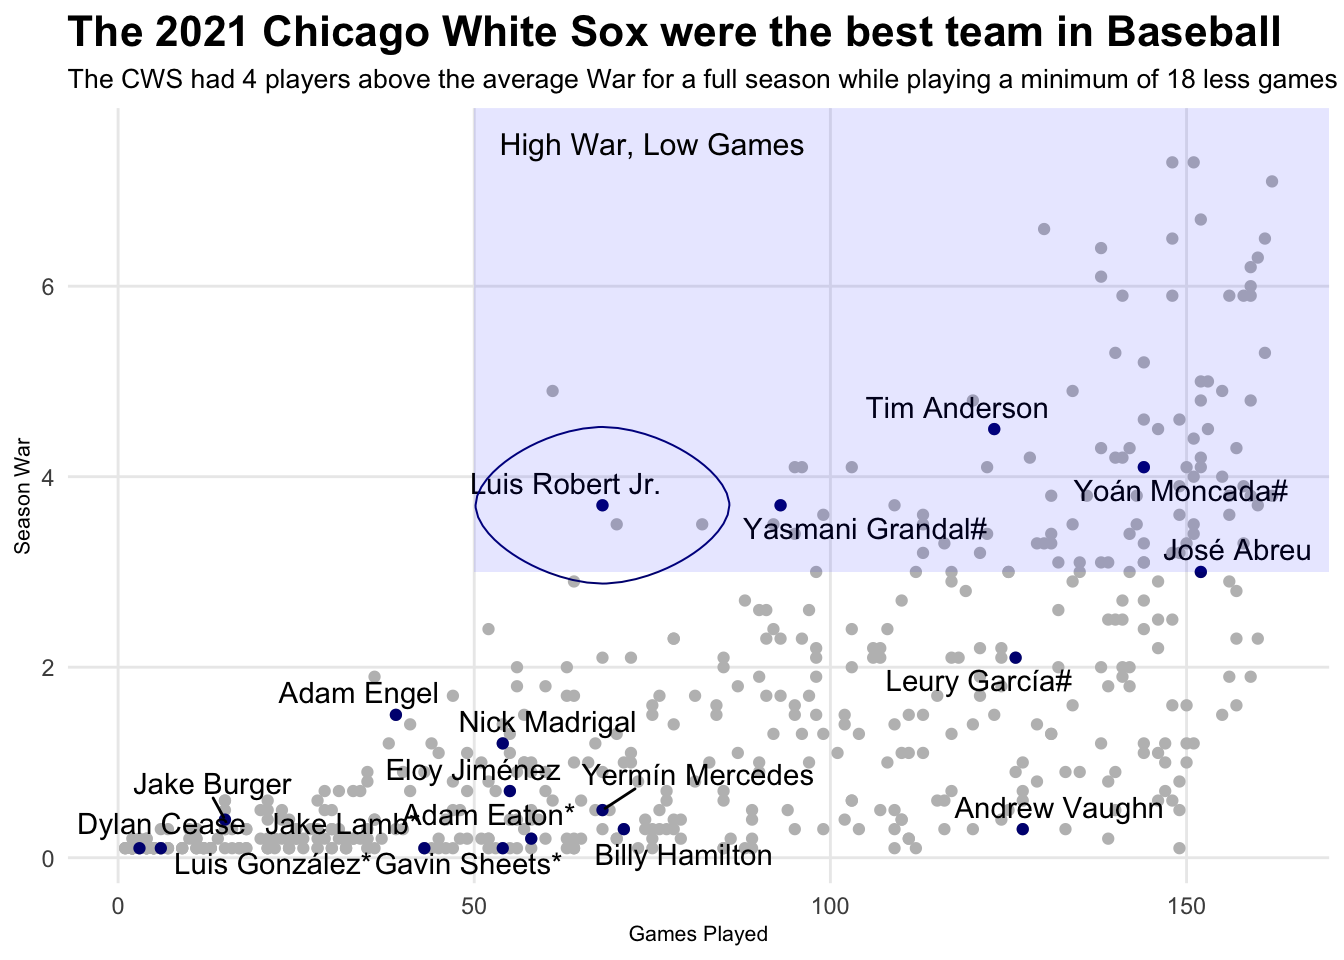
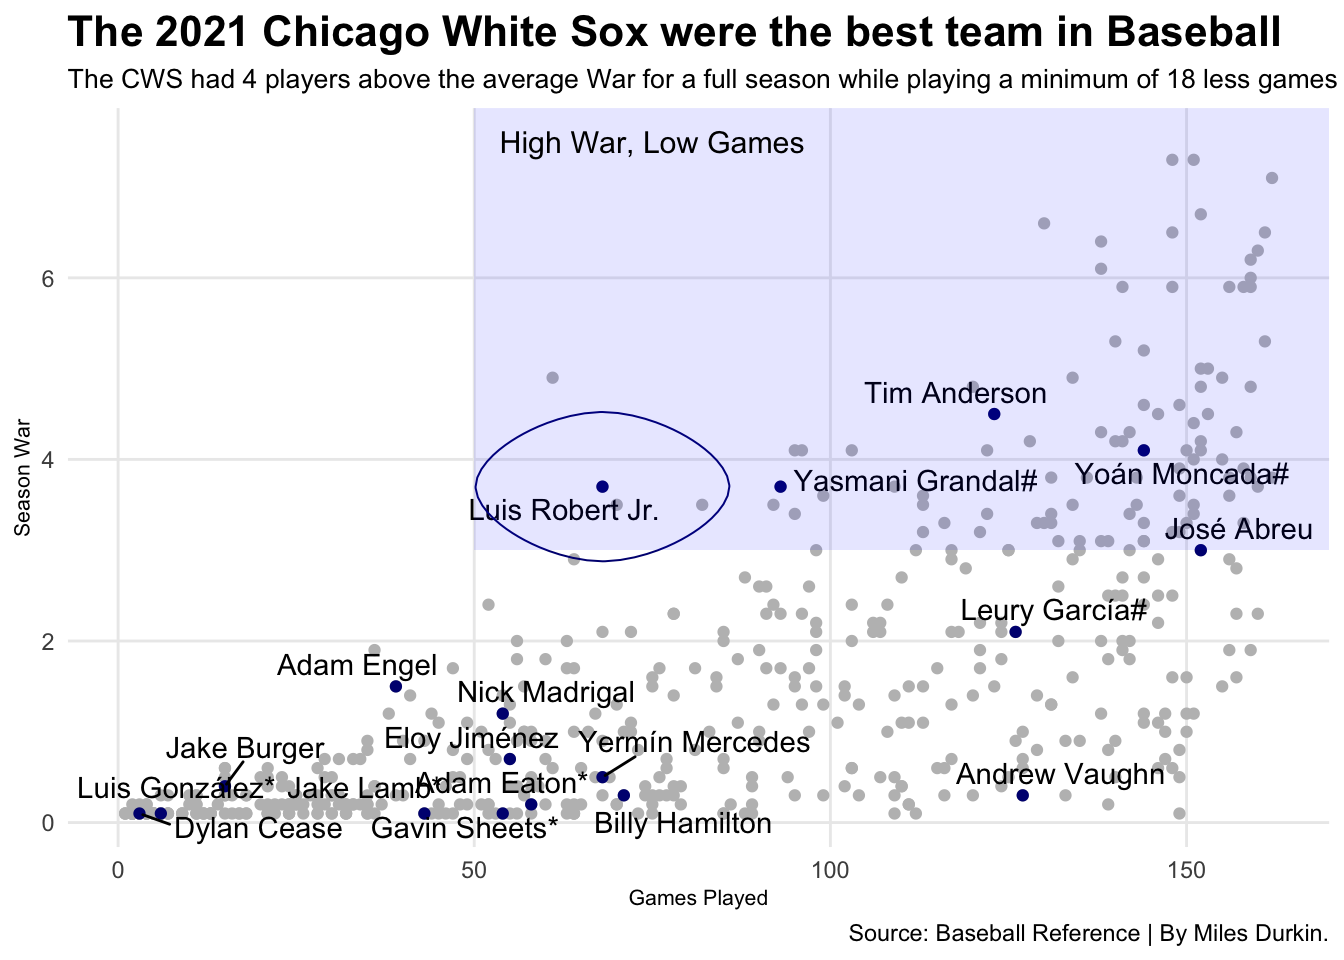
Final graphs added just need text

diff --git a/posts/mlb-baseball-whitesox-2021-season-best-team-in-the-league/index.html b/posts/mlb-baseball-whitesox-2021-season-best-team-in-the-league/index.html
@@ -401,7 +401,7 @@ dbl (29): Rk, Age, WAR, G, PA, AB, R, H, 2B, 3B, HR, RBI, SB, CS, BB, SO, BA...
 <span id="cb4-11"><a href="#cb4-11" aria-hidden="true" tabindex="-1"></a>        <span class="at">xmin =</span> <span class="dv">50</span>, <span class="at">xmax =</span> <span class="cn">Inf</span>,</span>
 <span id="cb4-12"><a href="#cb4-12" aria-hidden="true" tabindex="-1"></a>        <span class="at">ymin =</span> <span class="dv">3</span>, <span class="at">ymax =</span> <span class="cn">Inf</span>) <span class="sc">+</span></span>
 <span id="cb4-13"><a href="#cb4-13" aria-hidden="true" tabindex="-1"></a>  <span class="fu">geom_text</span>(<span class="fu">aes</span>(<span class="at">x=</span><span class="dv">75</span>, <span class="at">y=</span><span class="fl">7.5</span>, <span class="at">label=</span><span class="st">"High War, Low Games"</span>), <span class="at">size=</span><span class="dv">4</span>) <span class="sc">+</span></span>
-<span id="cb4-14"><a href="#cb4-14" aria-hidden="true" tabindex="-1"></a>  <span class="fu">labs</span>(<span class="at">title=</span><span class="st">"The 2021 Chicago White Sox were the best team in Baseball"</span>, <span class="at">subtitle=</span><span class="st">"The CWS had 4 players above the average War for a full season while playing a minimum of 18 less games"</span>, <span class="at">x=</span><span class="st">"Games Played"</span>, <span class="at">y=</span><span class="st">"Season War"</span>) <span class="sc">+</span> </span>
+<span id="cb4-14"><a href="#cb4-14" aria-hidden="true" tabindex="-1"></a>  <span class="fu">labs</span>(<span class="at">title=</span><span class="st">"The 2021 Chicago White Sox were the best team in Baseball"</span>, <span class="at">subtitle=</span><span class="st">"The CWS had 4 players above the average War for a full season while playing a minimum of 18 less games"</span>, <span class="at">x=</span><span class="st">"Games Played"</span>, <span class="at">y=</span><span class="st">"Season War"</span>, <span class="at">caption =</span> <span class="st">"Source: Baseball Reference | By Miles Durkin."</span>) <span class="sc">+</span> </span>
 <span id="cb4-15"><a href="#cb4-15" aria-hidden="true" tabindex="-1"></a>  <span class="fu">theme_minimal</span>() <span class="sc">+</span> </span>
 <span id="cb4-16"><a href="#cb4-16" aria-hidden="true" tabindex="-1"></a>  <span class="fu">theme</span>(</span>
 <span id="cb4-17"><a href="#cb4-17" aria-hidden="true" tabindex="-1"></a>    <span class="at">plot.title =</span> <span class="fu">element_text</span>(<span class="at">size =</span> <span class="dv">16</span>, <span class="at">face =</span> <span class="st">"bold"</span>),</span>
@@ -456,25 +456,81 @@ dbl (29): Rk, Age, WAR, G, PA, AB, R, H, 2B, 3B, HR, RBI, SB, CS, BB, SO, BA...
 <span id="cb5-33"><a href="#cb5-33" aria-hidden="true" tabindex="-1"></a>  ) <span class="sc">+</span></span>
 <span id="cb5-34"><a href="#cb5-34" aria-hidden="true" tabindex="-1"></a>  </span>
 <span id="cb5-35"><a href="#cb5-35" aria-hidden="true" tabindex="-1"></a>  <span class="fu">labs</span>(</span>
-<span id="cb5-36"><a href="#cb5-36" aria-hidden="true" tabindex="-1"></a>    <span class="at">x =</span> <span class="st">"Game Number"</span>,</span>
-<span id="cb5-37"><a href="#cb5-37" aria-hidden="true" tabindex="-1"></a>    <span class="at">y =</span> <span class="st">"Cumulative Wins"</span>,</span>
-<span id="cb5-38"><a href="#cb5-38" aria-hidden="true" tabindex="-1"></a>    <span class="at">title =</span> <span class="st">"Chicago White Sox 2021 Season Wins Progression"</span>,</span>
-<span id="cb5-39"><a href="#cb5-39" aria-hidden="true" tabindex="-1"></a>    <span class="at">subtitle =</span> <span class="st">"Step Chart of Wins with Key Injury Context"</span>,</span>
-<span id="cb5-40"><a href="#cb5-40" aria-hidden="true" tabindex="-1"></a>    <span class="at">caption =</span> <span class="st">"Source: Baseball Reference | By Miles Durkin."</span></span>
-<span id="cb5-41"><a href="#cb5-41" aria-hidden="true" tabindex="-1"></a>  ) <span class="sc">+</span></span>
-<span id="cb5-42"><a href="#cb5-42" aria-hidden="true" tabindex="-1"></a>  </span>
-<span id="cb5-43"><a href="#cb5-43" aria-hidden="true" tabindex="-1"></a>  <span class="fu">theme_minimal</span>() <span class="sc">+</span></span>
-<span id="cb5-44"><a href="#cb5-44" aria-hidden="true" tabindex="-1"></a>  <span class="fu">theme</span>(</span>
-<span id="cb5-45"><a href="#cb5-45" aria-hidden="true" tabindex="-1"></a>    <span class="at">plot.title =</span> <span class="fu">element_text</span>(<span class="at">size =</span> <span class="dv">16</span>, <span class="at">face =</span> <span class="st">"bold"</span>),</span>
-<span id="cb5-46"><a href="#cb5-46" aria-hidden="true" tabindex="-1"></a>    <span class="at">plot.subtitle =</span> <span class="fu">element_text</span>(<span class="at">size =</span> <span class="dv">10</span>),</span>
-<span id="cb5-47"><a href="#cb5-47" aria-hidden="true" tabindex="-1"></a>    <span class="at">axis.title =</span> <span class="fu">element_text</span>(<span class="at">size =</span> <span class="dv">8</span>),</span>
-<span id="cb5-48"><a href="#cb5-48" aria-hidden="true" tabindex="-1"></a>    <span class="at">panel.grid.minor =</span> <span class="fu">element_blank</span>()</span>
-<span id="cb5-49"><a href="#cb5-49" aria-hidden="true" tabindex="-1"></a>  )</span></code></pre></div><button title="Copy to Clipboard" class="code-copy-button"><i class="bi"></i></button></div>
+<span id="cb5-36"><a href="#cb5-36" aria-hidden="true" tabindex="-1"></a>    <span class="at">x =</span> <span class="st">"Game Number"</span>, <span class="at">y =</span> <span class="st">"Cumulative Wins"</span>, <span class="at">title =</span> <span class="st">"Chicago White Sox 2021 Season Wins Progression"</span>, <span class="at">subtitle =</span> <span class="st">"Step Chart of Wins with Key Injury Context"</span>, <span class="at">caption =</span> <span class="st">"Source: Baseball Reference | By Miles Durkin."</span></span>
+<span id="cb5-37"><a href="#cb5-37" aria-hidden="true" tabindex="-1"></a>  ) <span class="sc">+</span></span>
+<span id="cb5-38"><a href="#cb5-38" aria-hidden="true" tabindex="-1"></a>  </span>
+<span id="cb5-39"><a href="#cb5-39" aria-hidden="true" tabindex="-1"></a>  <span class="fu">theme_minimal</span>() <span class="sc">+</span></span>
+<span id="cb5-40"><a href="#cb5-40" aria-hidden="true" tabindex="-1"></a>  <span class="fu">theme</span>(</span>
+<span id="cb5-41"><a href="#cb5-41" aria-hidden="true" tabindex="-1"></a>    <span class="at">plot.title =</span> <span class="fu">element_text</span>(<span class="at">size =</span> <span class="dv">16</span>, <span class="at">face =</span> <span class="st">"bold"</span>),</span>
+<span id="cb5-42"><a href="#cb5-42" aria-hidden="true" tabindex="-1"></a>    <span class="at">plot.subtitle =</span> <span class="fu">element_text</span>(<span class="at">size =</span> <span class="dv">10</span>),</span>
+<span id="cb5-43"><a href="#cb5-43" aria-hidden="true" tabindex="-1"></a>    <span class="at">axis.title =</span> <span class="fu">element_text</span>(<span class="at">size =</span> <span class="dv">8</span>),</span>
+<span id="cb5-44"><a href="#cb5-44" aria-hidden="true" tabindex="-1"></a>    <span class="at">panel.grid.minor =</span> <span class="fu">element_blank</span>()</span>
+<span id="cb5-45"><a href="#cb5-45" aria-hidden="true" tabindex="-1"></a>  )</span></code></pre></div><button title="Copy to Clipboard" class="code-copy-button"><i class="bi"></i></button></div>
 </details>
 <div class="cell-output-display">
 <div>
 <figure class="figure">
 <p><img src="index_files/figure-html/unnamed-chunk-3-1.png" class="img-fluid figure-img" width="672"></p>
+</figure>
+</div>
+</div>
+</div>
+<div class="cell">
+<details class="code-fold">
+<summary>Code</summary>
+<div class="code-copy-outer-scaffold"><div class="sourceCode cell-code" id="cb6"><pre class="sourceCode r code-with-copy"><code class="sourceCode r"><span id="cb6-1"><a href="#cb6-1" aria-hidden="true" tabindex="-1"></a><span class="fu">library</span>(tidyverse)</span>
+<span id="cb6-2"><a href="#cb6-2" aria-hidden="true" tabindex="-1"></a><span class="fu">library</span>(ggalt)</span>
+<span id="cb6-3"><a href="#cb6-3" aria-hidden="true" tabindex="-1"></a><span class="fu">library</span>(ggrepel)</span>
+<span id="cb6-4"><a href="#cb6-4" aria-hidden="true" tabindex="-1"></a></span>
+<span id="cb6-5"><a href="#cb6-5" aria-hidden="true" tabindex="-1"></a>WSROSTER <span class="ot">&lt;-</span> <span class="fu">read.csv</span>(<span class="st">"data/WS_FULL_SEASON_ROSTER.csv"</span>)</span>
+<span id="cb6-6"><a href="#cb6-6" aria-hidden="true" tabindex="-1"></a></span>
+<span id="cb6-7"><a href="#cb6-7" aria-hidden="true" tabindex="-1"></a>LAROSTER <span class="ot">&lt;-</span> <span class="fu">read.csv</span>(<span class="st">"data/LAD_SEASON_ROSTER.csv"</span>)</span>
+<span id="cb6-8"><a href="#cb6-8" aria-hidden="true" tabindex="-1"></a></span>
+<span id="cb6-9"><a href="#cb6-9" aria-hidden="true" tabindex="-1"></a>SFROSTER <span class="ot">&lt;-</span> <span class="fu">read.csv</span>(<span class="st">"data/SF_SEASON_ROSTER.csv"</span>)</span>
+<span id="cb6-10"><a href="#cb6-10" aria-hidden="true" tabindex="-1"></a></span>
+<span id="cb6-11"><a href="#cb6-11" aria-hidden="true" tabindex="-1"></a><span class="fu">library</span>(tidyverse)</span>
+<span id="cb6-12"><a href="#cb6-12" aria-hidden="true" tabindex="-1"></a></span>
+<span id="cb6-13"><a href="#cb6-13" aria-hidden="true" tabindex="-1"></a>WS <span class="ot">&lt;-</span> WSROSTER <span class="sc">|&gt;</span></span>
+<span id="cb6-14"><a href="#cb6-14" aria-hidden="true" tabindex="-1"></a>  <span class="fu">summarise</span>(</span>
+<span id="cb6-15"><a href="#cb6-15" aria-hidden="true" tabindex="-1"></a>    <span class="at">Name =</span> <span class="st">"White Sox"</span>,</span>
+<span id="cb6-16"><a href="#cb6-16" aria-hidden="true" tabindex="-1"></a>    <span class="at">Players =</span> <span class="fu">n_distinct</span>(Player))</span>
+<span id="cb6-17"><a href="#cb6-17" aria-hidden="true" tabindex="-1"></a></span>
+<span id="cb6-18"><a href="#cb6-18" aria-hidden="true" tabindex="-1"></a>LAD <span class="ot">&lt;-</span> LAROSTER <span class="sc">|&gt;</span></span>
+<span id="cb6-19"><a href="#cb6-19" aria-hidden="true" tabindex="-1"></a>  <span class="fu">summarise</span>(</span>
+<span id="cb6-20"><a href="#cb6-20" aria-hidden="true" tabindex="-1"></a>    <span class="at">Name =</span> <span class="st">"Dodgers"</span>,</span>
+<span id="cb6-21"><a href="#cb6-21" aria-hidden="true" tabindex="-1"></a>    <span class="at">Players =</span> <span class="fu">n_distinct</span>(Player))</span>
+<span id="cb6-22"><a href="#cb6-22" aria-hidden="true" tabindex="-1"></a></span>
+<span id="cb6-23"><a href="#cb6-23" aria-hidden="true" tabindex="-1"></a>SF <span class="ot">&lt;-</span> SFROSTER <span class="sc">|&gt;</span></span>
+<span id="cb6-24"><a href="#cb6-24" aria-hidden="true" tabindex="-1"></a>  <span class="fu">summarise</span>(</span>
+<span id="cb6-25"><a href="#cb6-25" aria-hidden="true" tabindex="-1"></a>    <span class="at">Name =</span> <span class="st">"Giants"</span>,</span>
+<span id="cb6-26"><a href="#cb6-26" aria-hidden="true" tabindex="-1"></a>    <span class="at">Players =</span> <span class="fu">n_distinct</span>(Player))</span>
+<span id="cb6-27"><a href="#cb6-27" aria-hidden="true" tabindex="-1"></a></span>
+<span id="cb6-28"><a href="#cb6-28" aria-hidden="true" tabindex="-1"></a>BIGTHREE <span class="ot">&lt;-</span> <span class="fu">bind_rows</span>(WS, LAD, SF)</span>
+<span id="cb6-29"><a href="#cb6-29" aria-hidden="true" tabindex="-1"></a></span>
+<span id="cb6-30"><a href="#cb6-30" aria-hidden="true" tabindex="-1"></a><span class="fu">ggplot</span>() <span class="sc">+</span></span>
+<span id="cb6-31"><a href="#cb6-31" aria-hidden="true" tabindex="-1"></a>  <span class="fu">geom_bar</span>(</span>
+<span id="cb6-32"><a href="#cb6-32" aria-hidden="true" tabindex="-1"></a>    <span class="at">data =</span> BIGTHREE,</span>
+<span id="cb6-33"><a href="#cb6-33" aria-hidden="true" tabindex="-1"></a>    <span class="fu">aes</span>(<span class="at">x =</span> <span class="fu">reorder</span>(Name, Players), <span class="at">weight =</span> Players, <span class="at">fill =</span> Name)) <span class="sc">+</span></span>
+<span id="cb6-34"><a href="#cb6-34" aria-hidden="true" tabindex="-1"></a>  <span class="fu">coord_flip</span>() <span class="sc">+</span></span>
+<span id="cb6-35"><a href="#cb6-35" aria-hidden="true" tabindex="-1"></a>  <span class="fu">scale_fill_manual</span>(<span class="at">values =</span> <span class="fu">c</span>(</span>
+<span id="cb6-36"><a href="#cb6-36" aria-hidden="true" tabindex="-1"></a>    <span class="st">"White Sox"</span> <span class="ot">=</span> <span class="st">"black"</span>,</span>
+<span id="cb6-37"><a href="#cb6-37" aria-hidden="true" tabindex="-1"></a>    <span class="st">"Dodgers"</span> <span class="ot">=</span> <span class="st">"steelblue"</span>,</span>
+<span id="cb6-38"><a href="#cb6-38" aria-hidden="true" tabindex="-1"></a>    <span class="st">"Giants"</span> <span class="ot">=</span> <span class="st">"orange"</span>)) <span class="sc">+</span></span>
+<span id="cb6-39"><a href="#cb6-39" aria-hidden="true" tabindex="-1"></a>  <span class="fu">labs</span>(</span>
+<span id="cb6-40"><a href="#cb6-40" aria-hidden="true" tabindex="-1"></a>    <span class="at">title =</span> <span class="st">"MLB Roster Usage Comparison (2021 Season)"</span>, <span class="at">subtitle =</span> <span class="st">"Chicago White Sox vs Dodgers vs Giants: total unique players used"</span>, <span class="at">x =</span> <span class="st">"Team"</span>, <span class="at">y =</span> <span class="st">"Total Players Used"</span>, <span class="at">caption =</span> <span class="st">"Source: Baseball Reference roster data | By Miles Durkin"</span>) <span class="sc">+</span></span>
+<span id="cb6-41"><a href="#cb6-41" aria-hidden="true" tabindex="-1"></a>  <span class="fu">theme_minimal</span>() <span class="sc">+</span></span>
+<span id="cb6-42"><a href="#cb6-42" aria-hidden="true" tabindex="-1"></a>  <span class="fu">theme</span>(</span>
+<span id="cb6-43"><a href="#cb6-43" aria-hidden="true" tabindex="-1"></a>    <span class="at">title =</span> <span class="fu">element_text</span>(<span class="at">color =</span> <span class="st">"black"</span>, <span class="at">size =</span> <span class="dv">15</span>, <span class="at">face =</span> <span class="st">"bold"</span>),</span>
+<span id="cb6-44"><a href="#cb6-44" aria-hidden="true" tabindex="-1"></a>    <span class="at">plot.background =</span> <span class="fu">element_rect</span>(<span class="at">fill =</span> <span class="st">"white"</span>),</span>
+<span id="cb6-45"><a href="#cb6-45" aria-hidden="true" tabindex="-1"></a>    <span class="at">panel.border =</span> <span class="fu">element_rect</span>(<span class="at">linetype =</span> <span class="st">"dashed"</span>, <span class="at">fill =</span> <span class="cn">NA</span>),</span>
+<span id="cb6-46"><a href="#cb6-46" aria-hidden="true" tabindex="-1"></a>    <span class="at">panel.grid.major =</span> <span class="fu">element_line</span>(<span class="at">colour =</span> <span class="st">"grey"</span>),</span>
+<span id="cb6-47"><a href="#cb6-47" aria-hidden="true" tabindex="-1"></a>    <span class="at">axis.text =</span> <span class="fu">element_text</span>(<span class="at">color =</span> <span class="st">"black"</span>),</span>
+<span id="cb6-48"><a href="#cb6-48" aria-hidden="true" tabindex="-1"></a>  )</span></code></pre></div><button title="Copy to Clipboard" class="code-copy-button"><i class="bi"></i></button></div>
+</details>
+<div class="cell-output-display">
+<div>
+<figure class="figure">
+<p><img src="index_files/figure-html/unnamed-chunk-4-1.png" class="img-fluid figure-img" width="672"></p>
 </figure>
 </div>
 </div>

diff --git a/index.html b/index.html
@@ -373,7 +373,7 @@ window.Quarto = {
 
 <div class="quarto-listing quarto-listing-container-default" id="listing-listing">
 <div class="list quarto-listing-default">
-<div class="quarto-post image-right" data-index="0" data-categories="bWxiJTJDYmFzZWJhbGwlMkN3aGl0ZXNveA==" data-listing-date-sort="1775797200000" data-listing-file-modified-sort="1775839132605" data-listing-date-modified-sort="NaN" data-listing-reading-time-sort="3" data-listing-word-count-sort="443">
+<div class="quarto-post image-right" data-index="0" data-categories="bWxiJTJDYmFzZWJhbGwlMkN3aGl0ZXNveA==" data-listing-date-sort="1775797200000" data-listing-file-modified-sort="1775842179449" data-listing-date-modified-sort="NaN" data-listing-reading-time-sort="4" data-listing-word-count-sort="654">
 <div class="thumbnail"><a href="./posts/mlb-baseball-whitesox-2021-season-best-team-in-the-league/index.html" class="no-external">
 
 <img loading="lazy" src="./posts/mlb-baseball-whitesox-2021-season-best-team-in-the-league/image.png" class="thumbnail-image">
